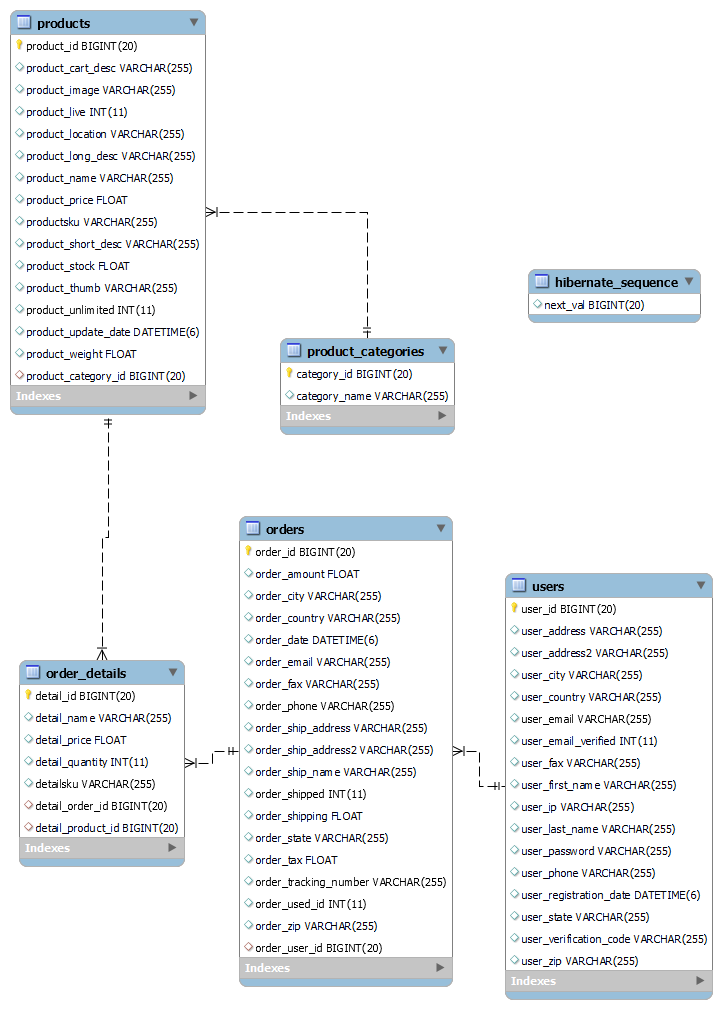
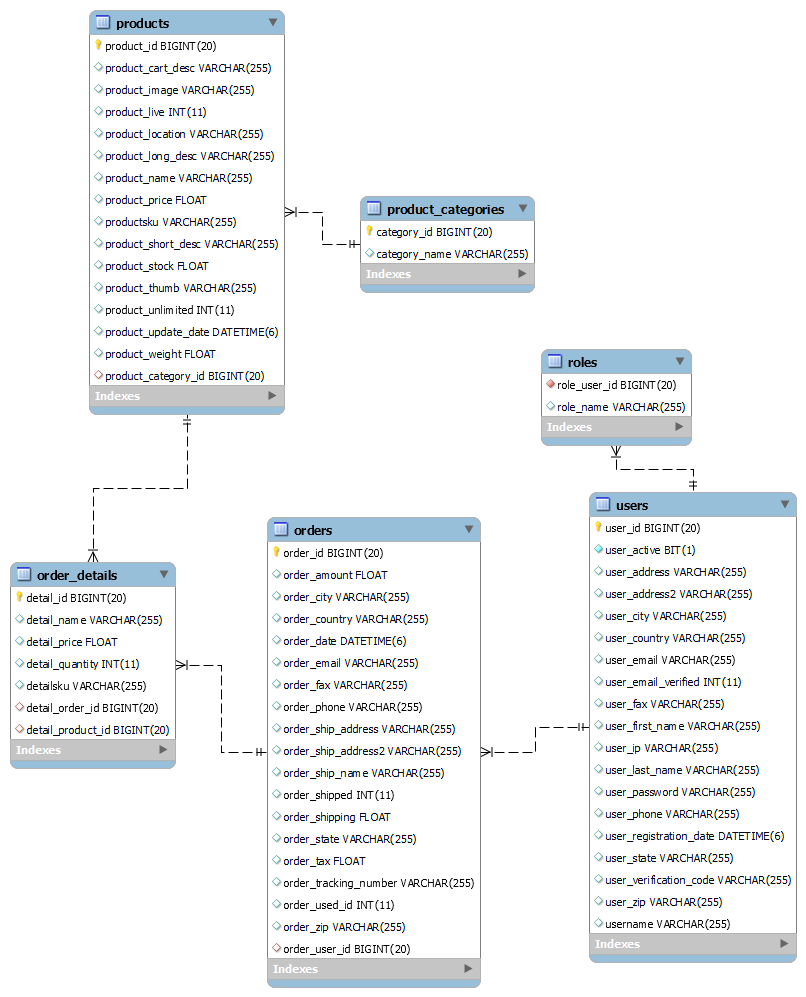
Work

diff --git a/src/main/java/com/akasyuka/website/config/WebSecurityConfig.java b/src/main/java/com/akasyuka/website/config/WebSecurityConfig.java
@@ -37,7 +37,7 @@ public class WebSecurityConfig extends WebSecurityConfigurerAdapter {
         auth.jdbcAuthentication()
                 .dataSource(dataSource)
                 .passwordEncoder(NoOpPasswordEncoder.getInstance())
-                .usersByUsernameQuery("select user_name, user_password, user_active from users where user_name=?")
-                .authoritiesByUsernameQuery("select u.user_name, ur.role_name from users u inner join role_users ur on u.user_id = ur.role_user_id where u.user_name=?");
+                .usersByUsernameQuery("select user_name, user_password, user_active from users where username=?")
+                .authoritiesByUsernameQuery("select u.user_name, ur.role_name from users u inner join role_users ur on u.user_id = ur.role_user_id where u.username=?");
     }
 }

diff --git a/src/main/java/com/akasyuka/website/entity/User.java b/src/main/java/com/akasyuka/website/entity/User.java
@@ -14,7 +14,8 @@ public class User {
     @GeneratedValue(strategy = GenerationType.AUTO)
     private Long userId;
 
-    private String userName;
+    private String username;
+
     private String userLastName;
     private boolean userActive;
 
@@ -44,12 +45,12 @@ public class User {
     private String userAddress2;
 
 
-    public String getUserName() {
-        return userName;
+    public String getUsername() {
+        return username;
     }
 
-    public void setUserName(String userName) {
-        this.userName = userName;
+    public void setUsername(String username) {
+        this.username = username;
     }
 
     public String getUserLastName() {

diff --git a/src/main/java/com/akasyuka/website/controller/RegistrationController.java b/src/main/java/com/akasyuka/website/controller/RegistrationController.java
@@ -24,7 +24,7 @@ public class RegistrationController {
 
     @PostMapping("/registration")
     public String addUser(User user, Map<String, Object> model) {
-        User userFromDb = userRepository.findByUsername(user.getUserName());
+        User userFromDb = userRepository.findByUsername(user.getUsername());
 
         if (userFromDb != null) {
             model.put("message", "User exist!");
